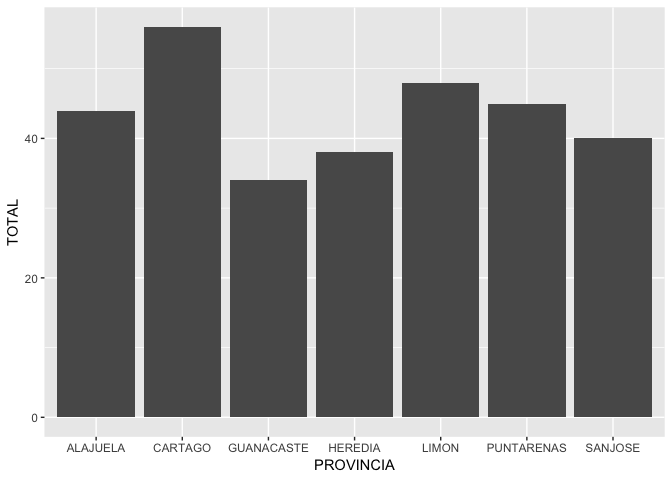
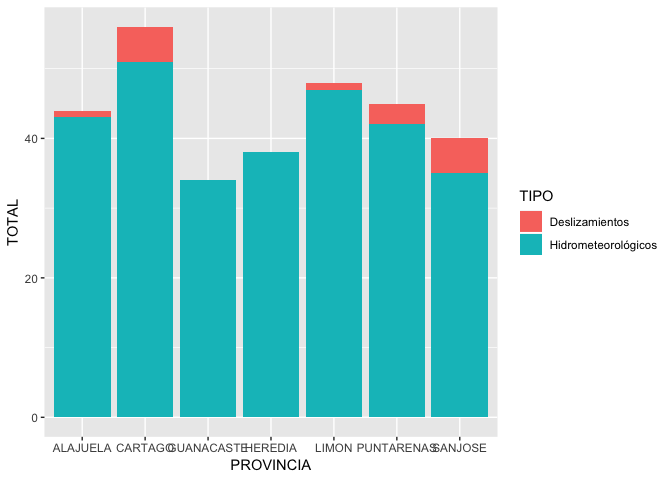
Actualización de gráfico

diff --git a/AnalisisDesastresCR.md b/AnalisisDesastresCR.md
@@ -373,10 +373,11 @@ Gráfico de número de desastres por provincia:
 
 ``` r
 ggplot(tablaGLimpia %>% 
-         select(7:13) %>% 
+         select(5, 7:13) %>% 
+         group_by(TIPO) %>% 
          summarise_all(funs(sum(.))) %>% 
-         gather(key = PROVINCIA, value = TOTAL), 
-       aes(x = PROVINCIA, y = TOTAL)) +
+         gather(key = PROVINCIA, value = TOTAL, -TIPO), 
+       aes(x = PROVINCIA, y = TOTAL, fill = TIPO)) +
   geom_col()
 ```
 
